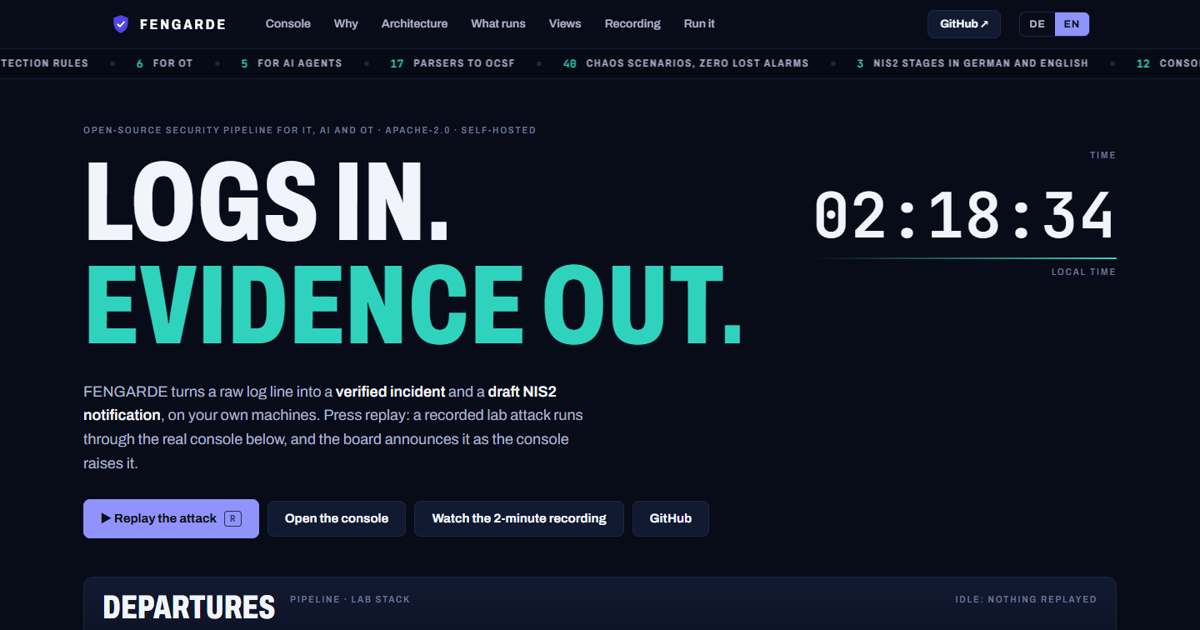
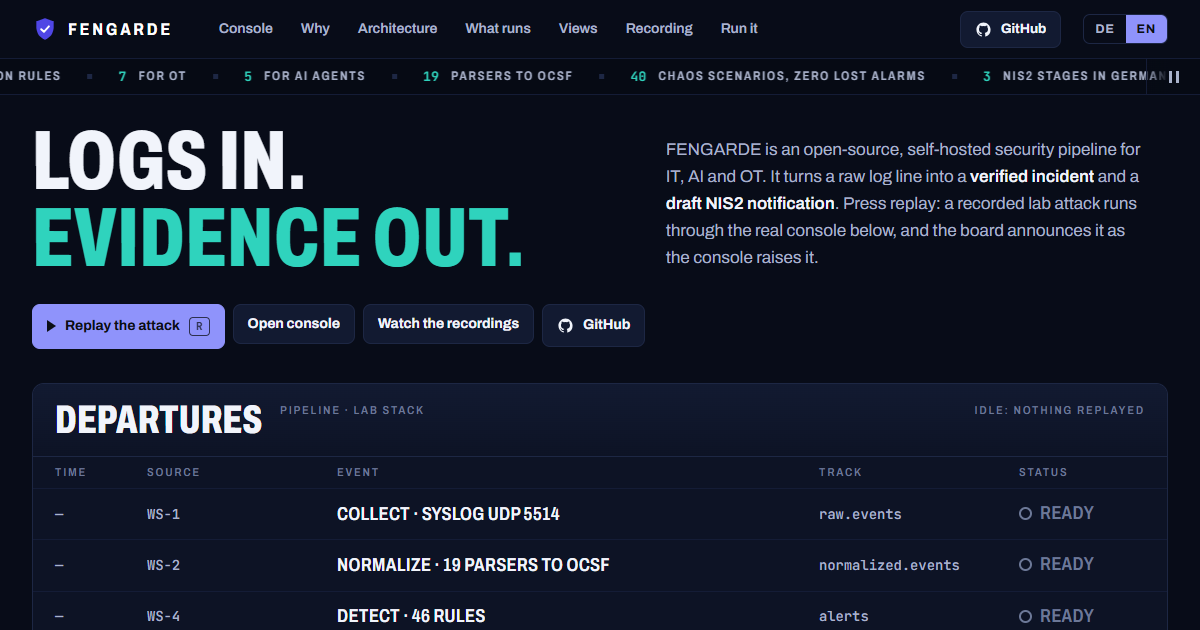
docs(site): regenerate og.png from the current page; restore hero side padding
og.png showed 17 parsers and an old layout; tools/console_e2e/og_shot.mjs now regenerates it.
.hero{padding:28px 0 8px} overrode .wrap's side padding, so the hero text touched the left edge
below ~1270px; padding-block keeps the vertical values and the wrap padding. pages.mjs 57/57.

diff --git a/docs/index.html b/docs/index.html
@@ -56,7 +56,7 @@
   .hero-grid{display:grid;grid-template-columns:minmax(0,1.15fr) minmax(0,1fr);grid-template-areas:"h l" "c c";gap:26px 56px;align-items:end}
 
   /* ---- hero ---- */
-  .hero{padding:28px 0 8px}
+  .hero{padding-block:28px 8px}
   .hero .tiny{display:block;margin-bottom:18px}
   h1{margin:0;font-size:clamp(50px,7vw,100px);line-height:.92;letter-spacing:-.005em}
   h1 em{font-style:normal;color:var(--ok)}
